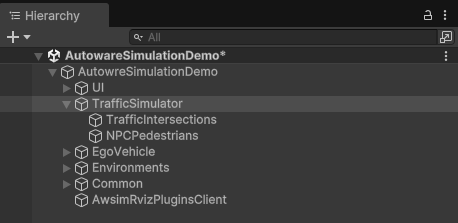
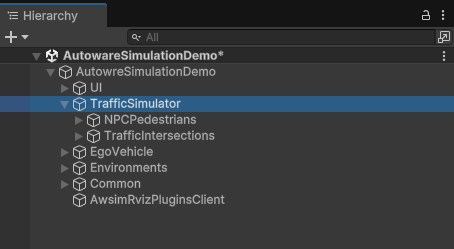
fix: steps

Changed region(s): [[0.0, 0.0269, 1.0, 0.9417], [0.0, 0.0, 0.2467, 0.1076], [0.0, 0.1345, 0.0617, 0.1883]]

diff --git a/docs/DeveloperGuide/Layer/Usecase/TrafficSimulation/Instruction/index.md b/docs/DeveloperGuide/Layer/Usecase/TrafficSimulation/Instruction/index.md
@@ -12,15 +12,37 @@ Attach this object to `TrafficSimulator` component.
 
 (optional) To locate objects to be generated later, you may creat empty objects named `TrafficIntersections` and `NPCPedestrians`.
 
-![Locate Traffic Simulator](./h)
+![Locate Traffic Simulator](./hierarchy.png)
 
 ## Environment (3D Map) setting
 
-## TrafficLight setting
-Please attach `LaneletTrafficLight` component to all traffic lights included in `3D Map`.
-Bulb
 
+## TrafficIntersection and LaneletTrafficLight settings
+Please locate intersection objects and attach `LaneletTrafficLight` script.<br>
+Then, please you set traffic lights to intersection.
+
+![Traffic Intersection](./traffic_intersection.png)
+
+Please configure `TrafficIntersection` and `LaneletTrafficLight` components as the following:
+
+1. Add a `GameObject` as a child object of `TrafficIntersections` hierarchy
+    1. The `GameObject` should be named `TrafficIntersection.x`
+    2. The `Transform` of `GameObject` should be set on the target intersection
+2. Attach a `TrafficIntersection` component to the intersection game object
+3. Attach `LaneletTrafficLight` to traffic light objects replaced on the target intersection
 ![Traffic Light](./traffic_light.png)
+4. Modify `Bulb Material Config` as follow images
+    1. If there are wrong order of bulb, modify each `Bulb Material Config`
+vehicle raffic light<br>
+![Bulb Vehicle](./bulb_vehicle.png)<br>
+pedestrian traffic light<br>
+![Bulb Pedestrian](./bulb_pedestrian.png)
+5. Set `TrafficLightGroups` to traffic light objects attached `LaneletTrafficLight` in step. 3
+    1. Traffic lights which should light same sequences should be set on same `TrafficLightGroups`
+6. (optional) Modify the signal control pattern in `Lighting Sequences`
+
+!!! warning
+    To attach `TrafficIntersection` to traffic lights which is not set to `TrafficIntersection` causes errors, so please avoid it.
 
 ## Load lanelet
 `LaneletLoader` can load a lanelet map and set parameter of traffic rules to `TrafficLane`, `StopLine` and `TrafficLight`.<br>
@@ -28,8 +50,8 @@ Bulb
 
 ![Tool Bar](./load_lanelet_tool_bar.png)
 
-Please fill in the `Osm` field with a lanelet map (`.osm`) you prepared, in the `Root Object` field with a `TrafficSimulator` object.<br>
-Please adjust the `Waypoint settings` parameters for the loading process if needed.<br>
+Please fill in `Osm` field with a lanelet map (`.osm`) you prepared, in `Root Object` field with a `TrafficSimulator` object.<br>
+Please adjust `Waypoint settings` parameters for the loading process if needed.<br>
 To load the lanelet map, please click `Load` button.
 
 ![Load Lanelet](./load_lanelet.png)
@@ -45,33 +67,22 @@ The `Waypoint settings` parameters are listed in the following table:
 `TrafficLane`, `StopLine` and `TrafficLight` will be generated and placed as child objects of the `Root Object`.<br>
 You can check their visual representation by clicking consecutive elements in the scene hierarchy.
 
-## TrafficIntersection setting
-Please locate intersection objects and set traffic lights to it.
-
-![Traffic Intersection](./traffic_intersection.png)
-
-Please configure `TrafficIntersection` components as the following:
-
-1. Add a `GameObject` as a child object of the `TrafficIntersections`
-    1. The `GameObject` should be named `TrafficIntersection.x`
-    2. The `Transform` of `GameObject` should be set on the target intersection
-2. Attach a `TrafficIntersection` component to the `GameObject`
-3. Set `TrafficLightGroups` to objects attached `LaneletTrafficLight` component replaced on the target intersection
-    1. Traffic lights which should light same sequences should be set on same `TrafficLightGroups`
-4. (optional) Modify the signal control pattern in `Lighting Sequences`
+![Hierarchy](./hierarchy2.png)
 
 ## TrafficSimulator setting
 
 ![Traffic Simulator](./traffic_simulator.png)
 
-Please configure the `TrafficSimulator` component as the following:
+Please configure `TrafficSimulator` component as the following:
 
-1. Ego
-2. EveryThing
-3. Fill in the `Traffic Intersections` field with `TrafficIntersection` objects
-4. Fill in the `Random Traffic Sims` field
-    1. Fill in the `Traffic Sim Npc Vehicle Prefab` field with vehicle prefabs what you want to spawn
-    2. Fill in the `Spawnable Traffic Lanes` field with `TrafficLane` where you want to spawn vehicles
+1. Fill in `Ego Vehicle` field with EGO vehicle
+    1. Example: `EgoVehicle/Lexus RX450h 2015`
+2. Change `Obstacle Layer Mask` and `Ground Layer Mask` field to `everything`
+3. Fill in `Traffic Intersections` field with `TrafficIntersection` objects
+4. Fill in `Random Traffic Sims` field
+    1. Fill in `Traffic Sim Npc Vehicle Prefab` field with vehicle prefabs what you want to spawn
+        1. Prefabs is in `Assets/Awsim/Prefabs/Usecase/TrafficSimulation/`
+    2. Fill in `Spawnable Traffic Lanes` field with `TrafficLane` where you want to spawn vehicles
 
 For detailed settings, see [here](../Abstract/index.md#configulations)
 
@@ -94,7 +105,7 @@ The parameters of `SimplePedestrianWalkerController` are listed in the following
 
 | Parameter | Description |
 |---|---|
-| Duration | Duration in which the pedestrian animate |
+| Duration | Duration at which the pedestrian walk |
 | Speed | Speed at which the pedestian walk |
 
 ## Reference Components
